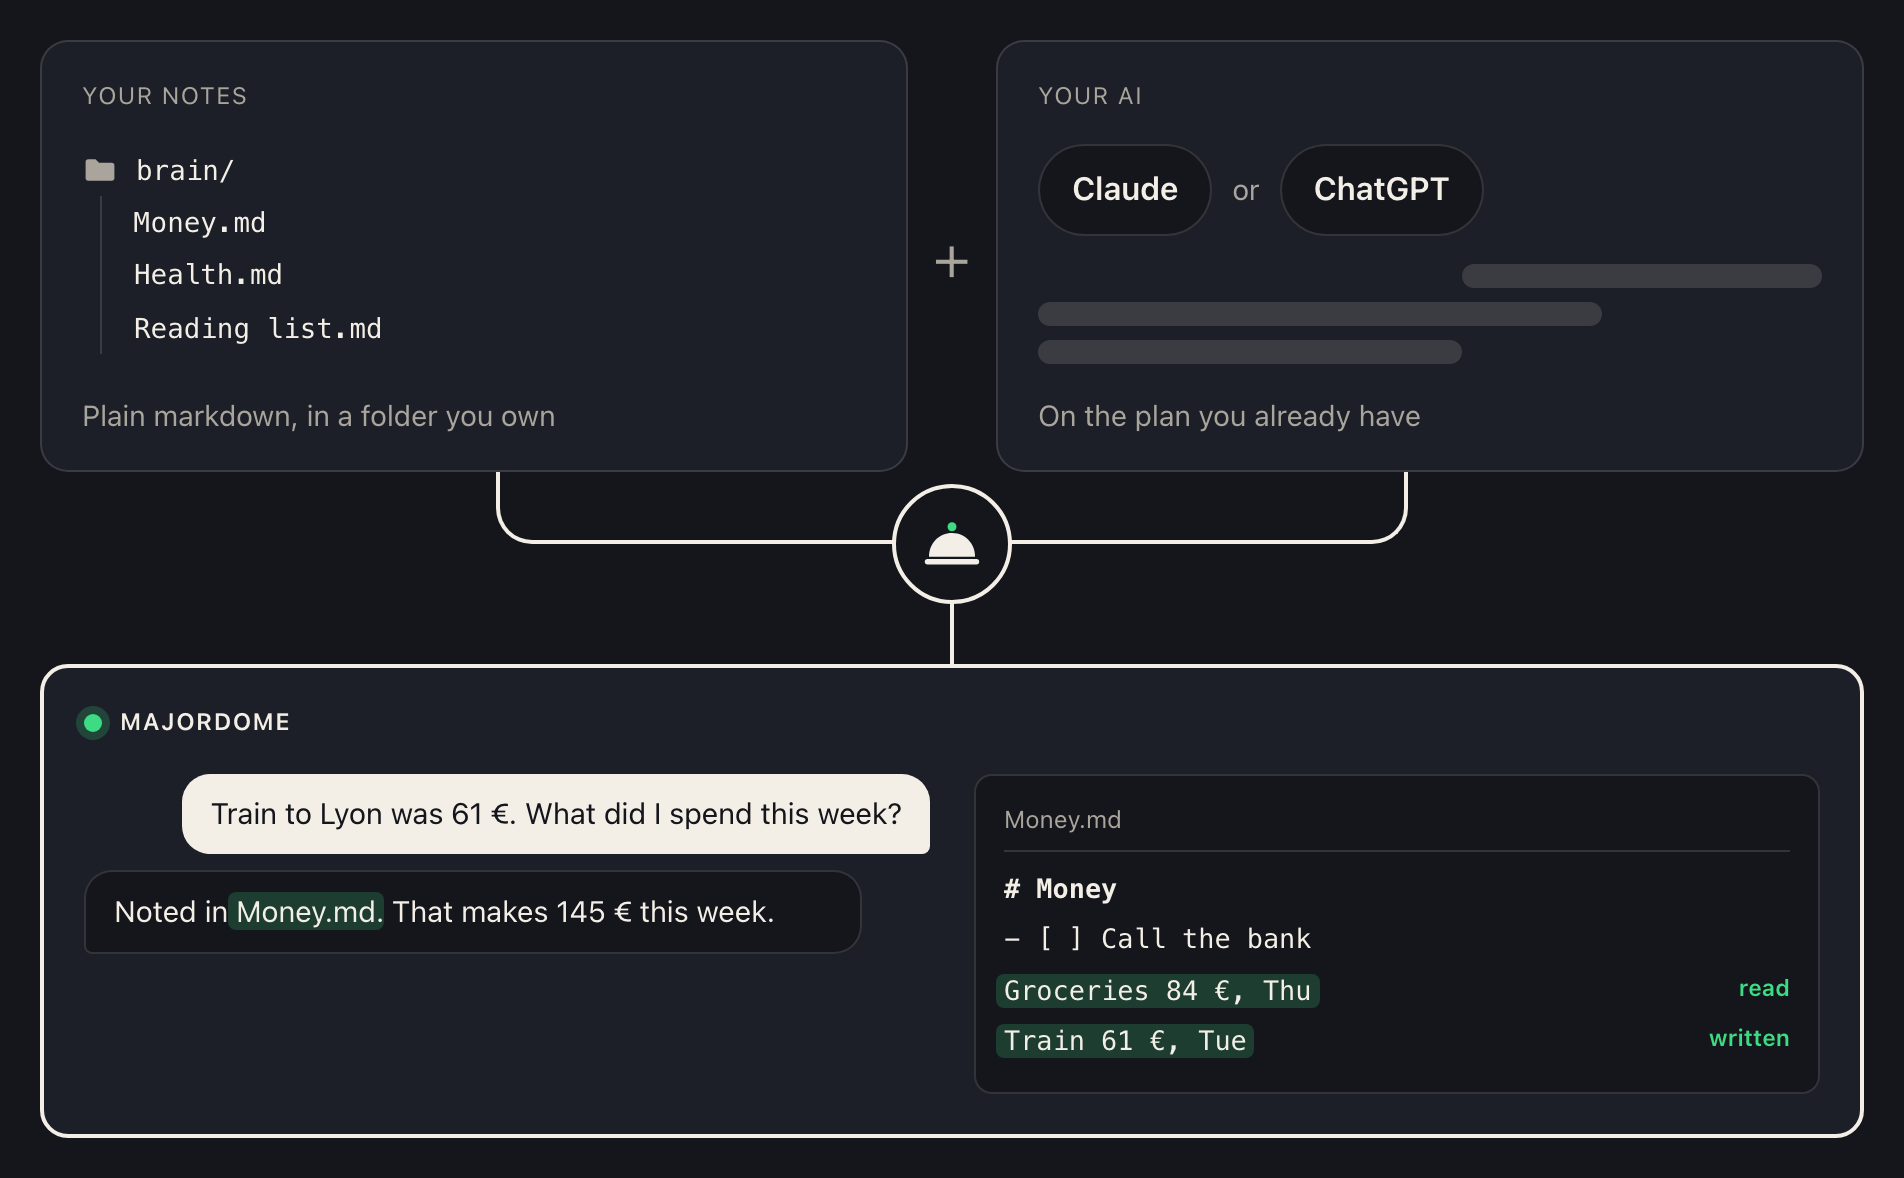
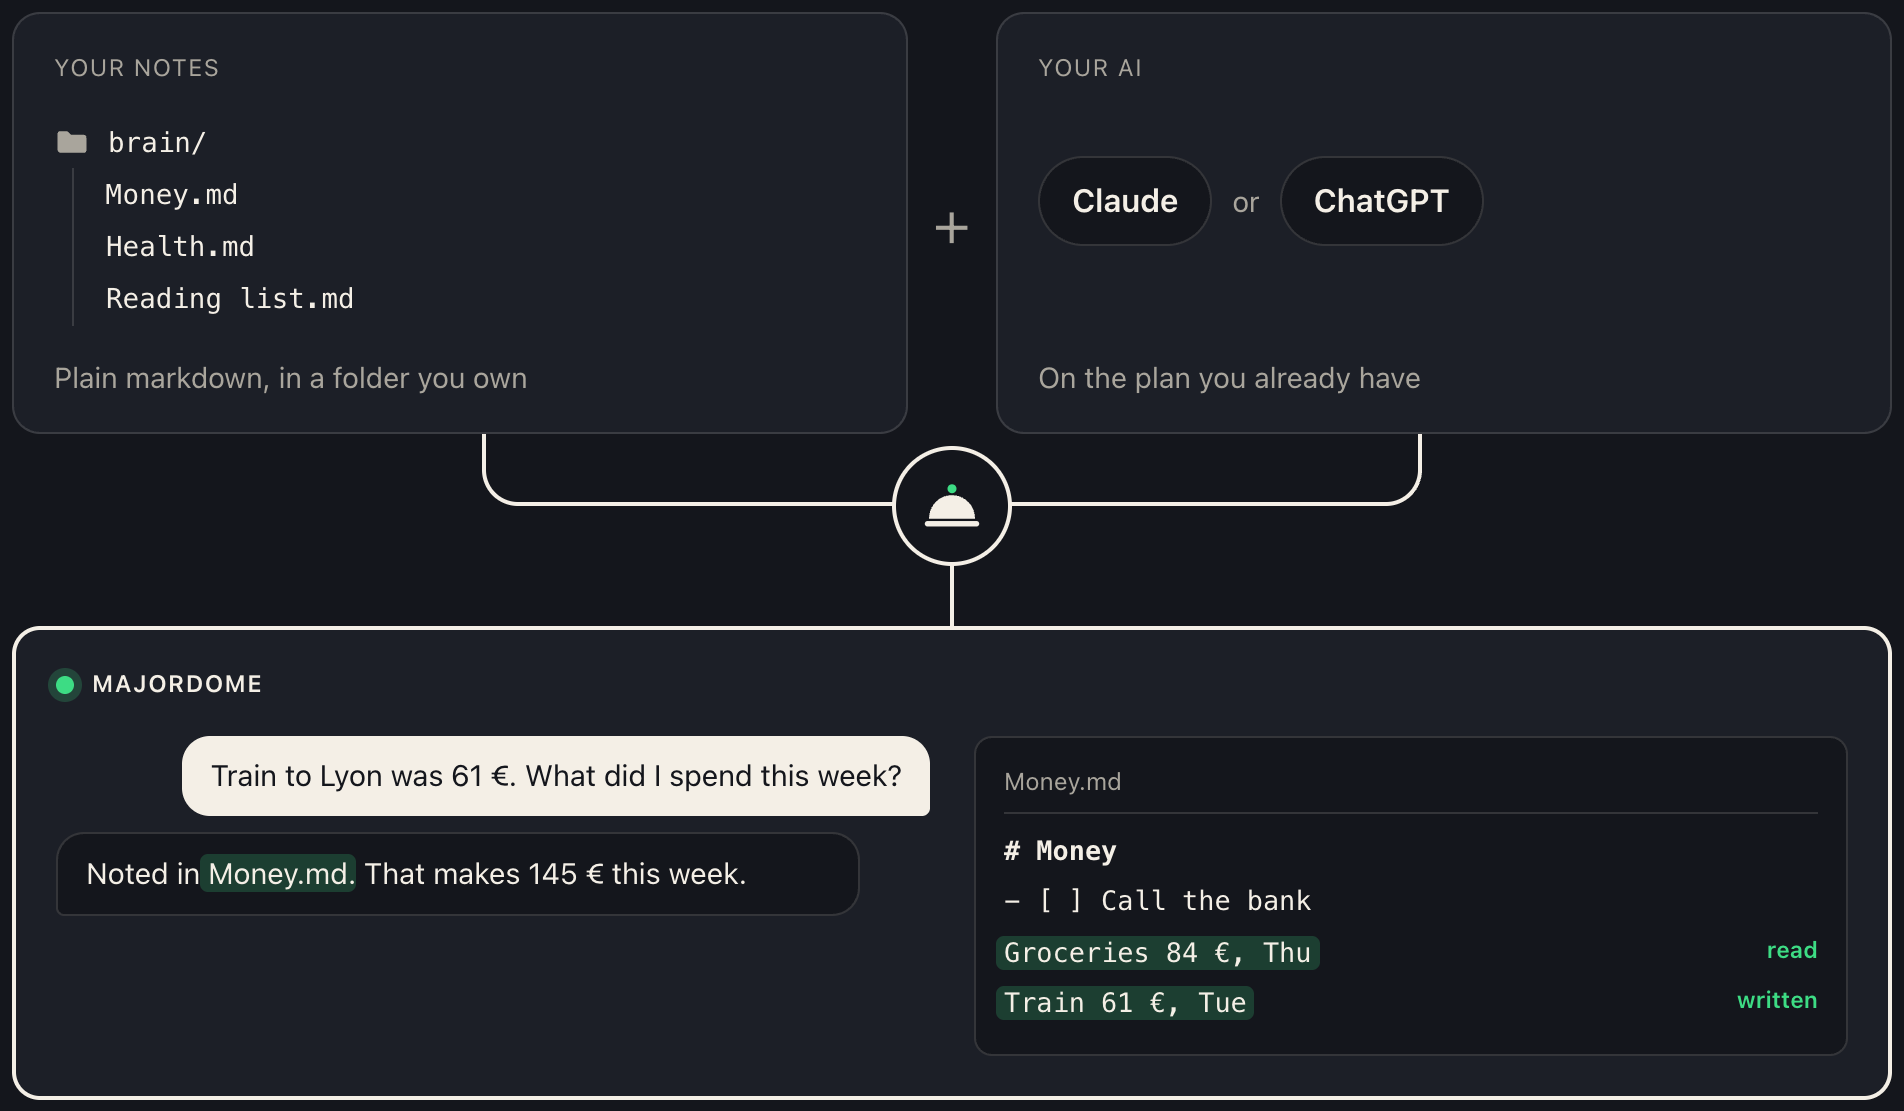
fix(site): the Your AI card no longer shows grey placeholder bars
The three grey bars under Claude or ChatGPT read as content that had not
loaded. They are gone, on the landing page and in the README diagram.

diff --git a/site/index.html b/site/index.html
@@ -331,6 +331,7 @@
         flex-wrap: wrap;
         align-items: center;
         gap: 10px;
+        margin: auto 0;
         font-size: 0.9rem;
         color: var(--muted);
       }
@@ -345,26 +346,6 @@
         color: var(--ink);
         font-size: 1rem;
         font-weight: 600;
-      }
-      .bubbles {
-        display: flex;
-        flex-direction: column;
-        gap: 7px;
-      }
-      .bubbles i {
-        height: 12px;
-        border-radius: 6px;
-        background: var(--line);
-      }
-      .bubbles i:nth-child(1) {
-        width: 46%;
-        align-self: flex-end;
-      }
-      .bubbles i:nth-child(2) {
-        width: 72%;
-      }
-      .bubbles i:nth-child(3) {
-        width: 54%;
       }
       /* Two lines drop from the parts and meet at the knot. */
       .funnel {
@@ -1533,7 +1514,6 @@
               <div class="part">
                 <div class="k">Your AI</div>
                 <div class="models"><b>Claude</b> or <b>ChatGPT</b></div>
-                <div class="bubbles"><i></i><i></i><i></i></div>
                 <div class="cap">On the plan you already have</div>
               </div>
             </div>
